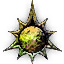
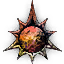
Use the colors of the game for the newest mastery regions
Taken from the mastery overview of the game: Secrets of the Obscure is
gold, Janthir Wilds deep blue and Visions of Eternity orange-red. The
icons of the three regions (hue shifted copies of the End of Dragons
icon) follow the same colors.

Checked by the user on the phone.

diff --git a/lib/core/utils/guild_wars.dart b/lib/core/utils/guild_wars.dart
@@ -46,11 +46,11 @@ class GuildWarsUtil {
       case 'Icebrood':
         return Colors.blueAccent;
       case 'Sky':
-        return Colors.indigo;
+        return Colors.amber[700];
       case 'Wild':
-        return Colors.deepOrange;
+        return Color(0xFF2845C9);
       case 'Magic':
-        return Colors.amber[800];
+        return Colors.deepOrange;
       default:
         return Color(0xFF118E8A);
     }
